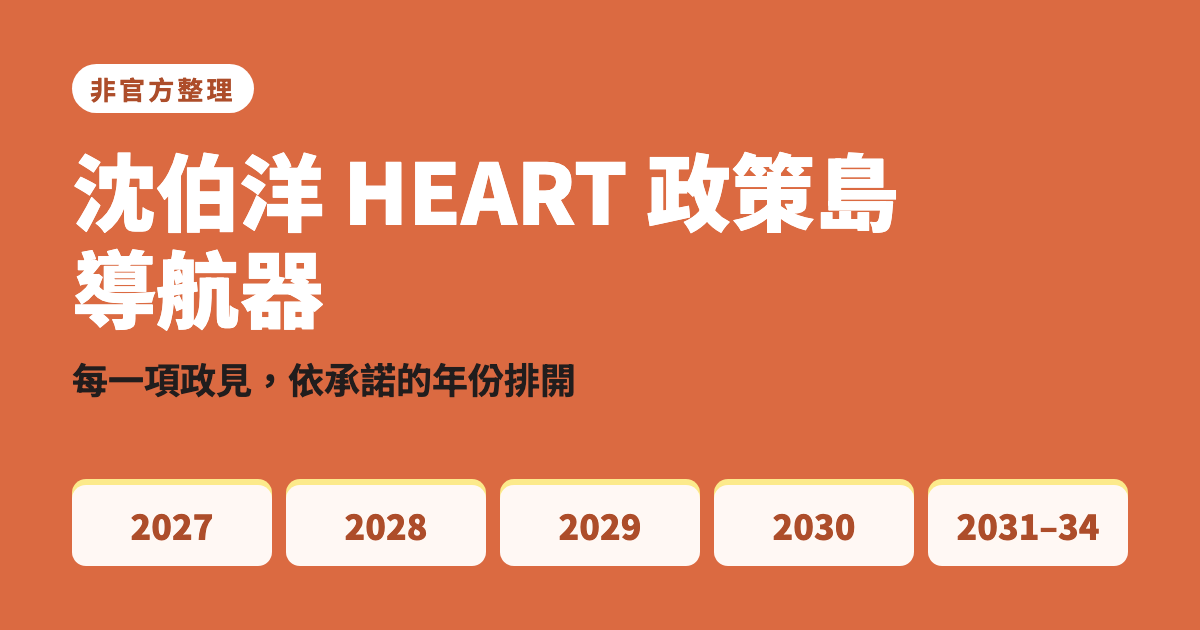
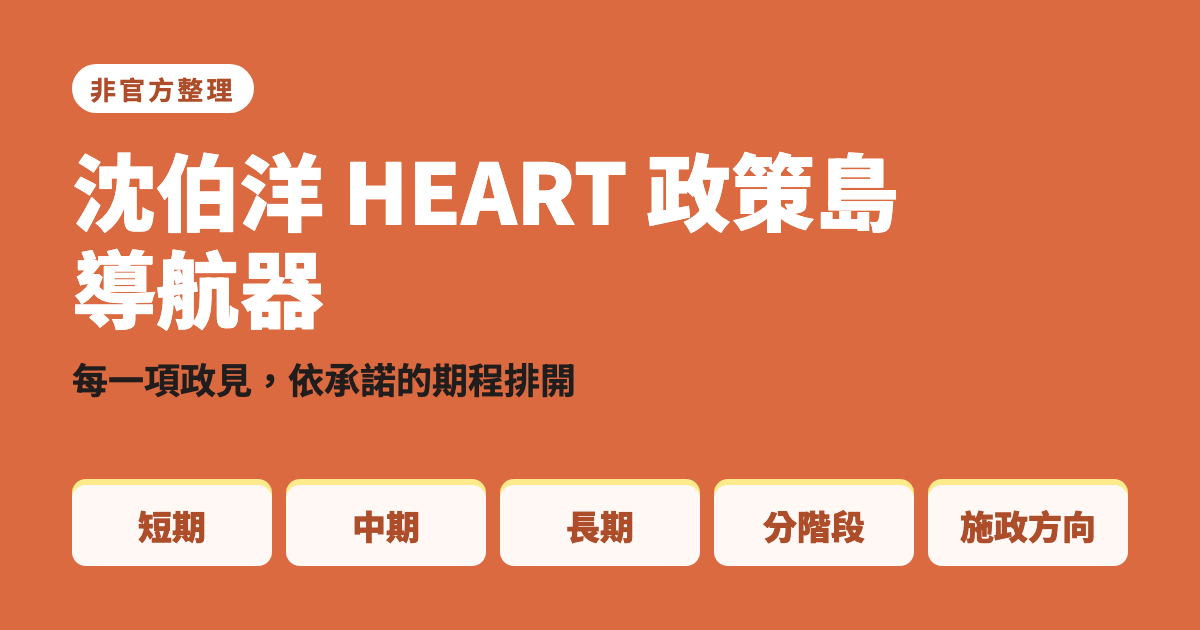
Timeline as two metrics: 任期期程 (短/中/長) and 分階段推動 (第一–三階段)

diff --git a/assets/app.js b/assets/app.js
@@ -1,4 +1,4 @@
-// Turns the HEART policy-island data into a by-year timeline.
+// Turns the HEART policy-island data into a timeline: term periods, staged rollouts, and direction-level policies.
 // Data is downloaded at deploy time (daily) from https://puma.taipei/heart-island-assets/policies.json
 // The official file is served for puma.taipei's own pages (no CORS header), so this page reads its own copy.
 
@@ -7,42 +7,48 @@ const MAP_URL = "https://puma.taipei/heart-island";
 // HEART 政策願景 letters as named on https://puma.taipei/heart.
 const HEART = { H: "空間", E: "機會", A: "陪伴", R: "韌性", T: "時間" };
 
-// Term assumed to start 2026-12-25, so term year N ≈ calendar year 2026 + N.
-const BUCKETS = [
-  { id: "y2027", title: "2027", sub: "任期第 1 年" },
-  { id: "y2028", title: "2028", sub: "任期第 2 年" },
-  { id: "y2029", title: "2029", sub: "任期第 3 年" },
-  { id: "y2030", title: "2030", sub: "任期第 4 年" },
-  { id: "y2031", title: "2031–2034", sub: "任期第 5–8 年（第二任）" },
-  { id: "short", title: "短期／初期", sub: "近程推動" },
-  { id: "mid", title: "中期", sub: "中程推動" },
-  { id: "long", title: "長期", sub: "長程推動" },
-  { id: "stage1", title: "第一階段", sub: "分階段推動" },
-  { id: "stage2", title: "第二階段", sub: "分階段推動" },
-  { id: "stage3", title: "第三階段", sub: "分階段推動" },
-  { id: "direction", title: "施政方向", sub: "貫穿任期的方向與政策" },
-  { id: "other", title: "其他時程", sub: "其他官方時程標記" },
+// Two ways the official data describes timing, kept as two metrics:
+// - 任期期程: term years and the official 短期／中期／長期, on one scale.
+//   Term assumed to start 2026-12-25, so term year N ≈ calendar year 2026 + N.
+// - 分階段推動: 第一／二／三階段, a rollout order within one topic (no dates attached).
+const GROUPS = [
+  { id: "term", label: "任期期程" },
+  { id: "staged", label: "分階段推動" },
+  { id: "whole", label: "貫穿任期" },
 ];
+const BUCKETS = [
+  { id: "short", group: "term", title: "短期", sub: "任期第 1–2 年（約 2027–2028）" },
+  { id: "mid", group: "term", title: "中期", sub: "任期第 3–4 年（約 2029–2030）" },
+  { id: "long", group: "term", title: "長期", sub: "任期第 5 年起（第二任）" },
+  { id: "stage1", group: "staged", title: "第一階段", sub: "各主題內的推動順序，依主題排列" },
+  { id: "stage2", group: "staged", title: "第二階段", sub: "各主題內的推動順序，依主題排列" },
+  { id: "stage3", group: "staged", title: "第三階段", sub: "各主題內的推動順序，依主題排列" },
+  { id: "direction", group: "whole", title: "施政方向", sub: "貫穿任期的方向與政策" },
+  { id: "other", group: "whole", title: "其他時程", sub: "其他官方時程標記" },
+];
+// Earlier section anchors, so shared #links still land somewhere sensible.
+const HASH_ALIASES = { y2027: "short", y2028: "short", y2029: "mid", y2030: "mid", y2031: "long", none: "direction" };
 
-// Stage code in policies.json → buckets it lands in, plus an approximate calendar range.
+// Stage code in policies.json → buckets it lands in, a calendar hint, and a sort key (`at`, start
+// time within the term) so each period lists the earliest steps first.
 // The official label text already says "第 N 年" etc., so `when` only adds the calendar hint.
 const STAGES = {
-  "m1-8": { buckets: ["y2027"], when: "≈ 2027/1–8" },
-  "m8-18": { buckets: ["y2027", "y2028"], when: "≈ 2027/8–2028/6" },
-  "m18-28": { buckets: ["y2028", "y2029"], when: "≈ 2028/6–2029/4" },
-  year1: { buckets: ["y2027"], when: "≈ 2027" },
-  "year1-2": { buckets: ["y2027", "y2028"], when: "≈ 2027–2028" },
-  "year2-3": { buckets: ["y2028", "y2029"], when: "≈ 2028–2029" },
-  "year3-4": { buckets: ["y2029", "y2030"], when: "≈ 2029–2030" },
-  "year4+": { buckets: ["y2030", "y2031"], when: "≈ 2030 以後" },
-  "year5-8": { buckets: ["y2031"], when: "≈ 2031–2034" },
-  ay117: { buckets: ["y2028", "y2029"], when: "2028/8–2029/7" },
-  short: { buckets: ["short"] },
-  mid: { buckets: ["mid"] },
-  long: { buckets: ["long"] },
-  stage1: { buckets: ["stage1"] },
-  stage2: { buckets: ["stage2"] },
-  stage3: { buckets: ["stage3"] },
+  "m1-8": { buckets: ["short"], when: "≈ 2027/1–8", at: 0 },
+  year1: { buckets: ["short"], when: "≈ 2027", at: 1 },
+  "year1-2": { buckets: ["short"], when: "≈ 2027–2028", at: 1 },
+  "m8-18": { buckets: ["short"], when: "≈ 2027/8–2028/6", at: 2 },
+  short: { buckets: ["short"], at: 3 },
+  "m18-28": { buckets: ["short", "mid"], when: "≈ 2028/6–2029/4", at: 4 },
+  "year2-3": { buckets: ["short", "mid"], when: "≈ 2028–2029", at: 4 },
+  ay117: { buckets: ["short", "mid"], when: "2028/8–2029/7", at: 5 },
+  "year3-4": { buckets: ["mid"], when: "≈ 2029–2030", at: 6 },
+  mid: { buckets: ["mid"], at: 7 },
+  "year4+": { buckets: ["mid", "long"], when: "≈ 2030 以後", at: 8 },
+  "year5-8": { buckets: ["long"], when: "≈ 2031–2034", at: 9 },
+  long: { buckets: ["long"], at: 10 },
+  stage1: { buckets: ["stage1"], at: 0 },
+  stage2: { buckets: ["stage2"], at: 0 },
+  stage3: { buckets: ["stage3"], at: 0 },
 };
 
 const $ = (s) => document.querySelector(s);
@@ -77,7 +83,7 @@ function build(D) {
       if (!stages.length) add("direction", null);
       stages.forEach((st, n) => {
         const def = STAGES[st];
-        const step = { when: def ? def.when : st, text: parts ? parts[n] : label };
+        const step = { when: def ? def.when : st, at: def?.at ?? 99, text: parts ? parts[n] : label };
         for (const bucket of def?.buckets || ["other"]) add(bucket, step);
       });
       const src = (b.sources || []).map((id) => sources.get(id)).find(Boolean);
@@ -157,17 +163,25 @@ function card(p, bucketId) {
 
 function render(policies) {
   const shown = policies.filter(matches);
-  const byBucket = BUCKETS.map((b) => ({ ...b, items: shown.filter((p) => p.placements.has(b.id)) }));
+  // Periods list the earliest steps first; stages keep topics together (data order is topic order).
+  const start = (p, id) => Math.min(...p.placements.get(id).map((s) => s?.at ?? 99));
+  const byBucket = BUCKETS.map((b) => ({
+    ...b,
+    items: shown.filter((p) => p.placements.has(b.id)).sort((x, y) => start(x, b.id) - start(y, b.id)),
+  }));
   const max = Math.max(1, ...byBucket.map((b) => b.items.length));
 
-  $("#summary").innerHTML = byBucket
-    .filter((b) => b.id !== "other" || b.items.length)
-    .map(
-      (b) => `<a href="#${b.id}" class="${b.items.length ? "" : "empty"}">
-        <b>${b.items.length}</b>${esc(b.title)}
-        <div class="bar" style="width:${(b.items.length / max) * 100}%"></div></a>`
-    )
-    .join("");
+  $("#summary").innerHTML = GROUPS.map((g) => {
+    const tiles = byBucket
+      .filter((b) => b.group === g.id && (b.id !== "other" || b.items.length))
+      .map(
+        (b) => `<a href="#${b.id}" class="${b.items.length ? "" : "empty"}">
+          <b>${b.items.length}</b>${esc(b.title)}
+          <div class="bar" style="width:${(b.items.length / max) * 100}%"></div></a>`
+      )
+      .join("");
+    return `<div class="sum-group"><span class="sum-label">${esc(g.label)}</span><div class="sum-tiles">${tiles}</div></div>`;
+  }).join("");
 
   $("#timeline").innerHTML =
     byBucket
@@ -256,10 +270,19 @@ async function main() {
   };
   rerender();
   // Sections only exist after the data loads, so the browser's own #hash jump misses them.
-  if (location.hash) {
-    history.scrollRestoration = "manual";
-    requestAnimationFrame(() => document.getElementById(location.hash.slice(1))?.scrollIntoView());
-  }
+  // Old anchors (#y2027…) are rewritten to their new section, on load and on in-page hash changes.
+  const jumpToHash = () => {
+    let id = location.hash.slice(1);
+    if (!id) return;
+    if (HASH_ALIASES[id]) {
+      id = HASH_ALIASES[id];
+      history.replaceState(null, "", `#${id}`);
+    }
+    requestAnimationFrame(() => document.getElementById(id)?.scrollIntoView());
+  };
+  if (location.hash) history.scrollRestoration = "manual";
+  jumpToHash();
+  addEventListener("hashchange", jumpToHash);
 }
 
 // Back-to-top button shows once the header has scrolled away; hidden, it's out of the tab order.

diff --git a/index.html b/index.html
@@ -4,19 +4,19 @@
 <meta charset="utf-8">
 <meta name="viewport" content="width=device-width,initial-scale=1">
 <title>沈伯洋 HEART 政策島 導航器</title>
-<meta name="description" content="把沈伯洋 HEART 政策島的 94 項政見，依任期年份整理成時程表（非官方整理）。">
+<meta name="description" content="把沈伯洋 HEART 政策島的 94 項政見，依任期期程整理成時程表（非官方整理）。">
 <link rel="canonical" href="https://sansword.github.io/puma_heart_island_navigator/">
 <!-- Social preview (Threads, Facebook, LINE, X). og:image must be absolute; regenerate with scripts/og.sh. -->
 <meta property="og:type" content="website">
 <meta property="og:locale" content="zh_TW">
 <meta property="og:site_name" content="沈伯洋 HEART 政策島 導航器">
 <meta property="og:title" content="沈伯洋 HEART 政策島 導航器">
-<meta property="og:description" content="把沈伯洋 HEART 政策島的每一項政見，依任期年份整理成時程表（非官方整理）。">
+<meta property="og:description" content="把沈伯洋 HEART 政策島的每一項政見，依任期期程整理成時程表（非官方整理）。">
 <meta property="og:url" content="https://sansword.github.io/puma_heart_island_navigator/">
 <meta property="og:image" content="https://sansword.github.io/puma_heart_island_navigator/assets/og.png">
 <meta property="og:image:width" content="1200">
 <meta property="og:image:height" content="630">
-<meta property="og:image:alt" content="沈伯洋 HEART 政策島 導航器：每一項政見，依承諾的年份排開">
+<meta property="og:image:alt" content="沈伯洋 HEART 政策島 導航器：每一項政見，依承諾的期程排開">
 <meta name="twitter:card" content="summary_large_image">
 <!-- Official puma.taipei favicon (32x32 .ico). -->
 <link rel="icon" href="assets/favicon.ico" sizes="any">
@@ -31,7 +31,7 @@
 <header class="top">
   <p class="eyebrow">非官方整理 · Unofficial</p>
   <h1>沈伯洋 HEART 政策島 導航器</h1>
-  <p class="lede">把 <a href="https://puma.taipei/heart-island" target="_blank" rel="noopener">HEART 政策島</a> 的每一項政見，依承諾的年份排開。點「拜訪政策島」會開啟政策島並聚焦到該主題，再從主題面板的「政策細項」清單點選該政策。</p>
+  <p class="lede">把 <a href="https://puma.taipei/heart-island" target="_blank" rel="noopener">HEART 政策島</a> 的每一項政見，依承諾的期程排開。點「拜訪政策島」會開啟政策島並聚焦到該主題，再從主題面板的「政策細項」清單點選該政策。</p>
   <p class="meta" id="meta">載入中…</p>
 </header>
 </div>
@@ -55,7 +55,7 @@
 <main id="timeline"></main>
 
 <footer class="foot">
-  <p>資料來源：<a href="https://puma.taipei/heart-island-assets/policies.json" target="_blank" rel="noopener">puma.taipei 政策島資料</a>，每日自動同步。年份換算假設任期自 2026-12-25 起算（任期第 1 年 ≈ 2027）；「短期／中期／長期」與「階段」依官方原文的期程獨立列出。</p>
+  <p>資料來源：<a href="https://puma.taipei/heart-island-assets/policies.json" target="_blank" rel="noopener">puma.taipei 政策島資料</a>，每日自動同步。任期第 1–2 年歸為短期、第 3–4 年為中期、第 5 年起為長期，年份換算假設任期自 2026-12-25 起算（任期第 1 年 ≈ 2027）。以「階段」描述的政策另列，階段是各主題內的推動順序。</p>
   <p>本頁為個人整理，非競選團隊官方網站。</p>
   <p class="credit">由 <a href="https://www.threads.com/@sanswordtw" target="_blank" rel="noopener">SansWord</a> 製作 · <a href="https://github.com/SansWord/puma_heart_island_navigator" target="_blank" rel="noopener">GitHub 原始碼</a></p>
   <p class="credit">有想法或建議？歡迎在 <a href="https://github.com/SansWord/puma_heart_island_navigator/issues" target="_blank" rel="noopener">GitHub 開 issue</a>，或到 <a href="https://www.threads.com/@sanswordtw" target="_blank" rel="noopener">Threads 私訊我</a>。</p>

diff --git a/assets/style.css b/assets/style.css
@@ -112,11 +112,21 @@ h1 { margin: 10px 0 10px; font-size: clamp(30px, 6vw, 48px); font-weight: 900; l
   .chips button { padding: 4px 8px; }
 }
 
+/* Summary: one labelled group per metric (任期期程 / 分階段推動 / 貫穿任期), side by side on wide
+   screens. Group widths follow their tile counts so all tiles come out the same size. */
 .summary {
-  display: grid;
-  grid-template-columns: repeat(auto-fill, minmax(150px, 1fr));
-  gap: 6px;
+  display: flex;
+  flex-wrap: wrap;
+  gap: 10px 12px;
   margin-top: 16px;
+}
+.sum-group { flex: 3 1 300px; min-width: 0; }
+.sum-group:last-child { flex: 1 1 96px; }
+.sum-label { display: block; margin-bottom: 4px; font-size: 12px; font-weight: 700; color: var(--muted); }
+.sum-tiles { display: grid; grid-template-columns: repeat(3, 1fr); gap: 6px; }
+.sum-group:last-child .sum-tiles { grid-template-columns: 1fr; }
+@media (max-width: 540px) {
+  .sum-group:last-child { flex: 0 0 calc((100% - 12px) / 3); }
 }
 .summary a {
   display: block;

diff --git a/scripts/og-card.html b/scripts/og-card.html
@@ -44,7 +44,7 @@
 <body>
   <div class="eyebrow">非官方整理</div>
   <h1>沈伯洋 HEART 政策島<br>導航器</h1>
-  <p class="lede">每一項政見，依承諾的年份排開</p>
-  <div class="years"><span>2027</span><span>2028</span><span>2029</span><span>2030</span><span>2031–34</span></div>
+  <p class="lede">每一項政見，依承諾的期程排開</p>
+  <div class="years"><span>短期</span><span>中期</span><span>長期</span><span>分階段</span><span>施政方向</span></div>
 </body>
 </html>

diff --git a/README.md b/README.md
@@ -1,6 +1,6 @@
 # 沈伯洋 HEART 政策島 導航器
 
-非官方整理。把 [HEART 政策島](https://puma.taipei/heart-island) 的 94 項政見依任期年份排開，每項都附「拜訪政策島」連結（開啟政策島並聚焦到該主題，再從「政策細項」點選該政策）與政見原文連結。
+非官方整理。把 [HEART 政策島](https://puma.taipei/heart-island) 的 94 項政見依任期期程排開，每項都附「拜訪政策島」連結（開啟政策島並聚焦到該主題，再從「政策細項」點選該政策）與政見原文連結。
 
 網站：<https://sansword.github.io/puma_heart_island_navigator/>
 
@@ -26,11 +26,16 @@ scripts/serve.sh 9000     # 改用其他 port
 
 ## 網址參數
 
-- `?heart=H,E` — 依 HEART 字母篩選
-- `?island=transport,sport` — 依主題篩選（id 見 `policies.json` 的 `islands[].id`）
+- `?heart=H,E` — 依 HEART 政策願景篩選
+- `?island=transport,sport` — 依政策主題篩選（id 見 `policies.json` 的 `islands[].id`）
 - `?q=公車` — 關鍵字
-- `#y2027` … `#y2031`、`#short`、`#mid`、`#long`、`#stage1`–`#stage3`、`#direction`（施政方向） — 跳到該時段
+- `#short`、`#mid`、`#long`、`#stage1`–`#stage3`、`#direction`（施政方向） — 跳到該區段；舊的 `#y2027`–`#y2031`、`#none` 會自動轉到對應區段
 
-## 年份換算
+## 期程
 
-假設任期自 2026-12-25 起算，任期第 N 年 ≈ 2026 + N 年。對照表在 `assets/app.js` 的 `STAGES`。「短期／中期／長期」與「第一～三階段」依官方原文的期程獨立列出。
+官方資料用兩種方式描述時程，本站分成兩組呈現：
+
+- **任期期程**：任期年份與官方的「短期／中期／長期」放在同一把尺上。任期第 1–2 年為短期、第 3–4 年為中期、第 5 年起為長期；假設任期自 2026-12-25 起算，任期第 N 年 ≈ 2026 + N 年。跨兩期的細項兩邊都會出現。
+- **分階段推動**：「第一～三階段」是各主題內的推動順序，不對應年份，依階段另列，同一階段內依主題排列。
+
+沒有時程代碼的細項列在「施政方向」。對照表在 `assets/app.js` 的 `STAGES`。
